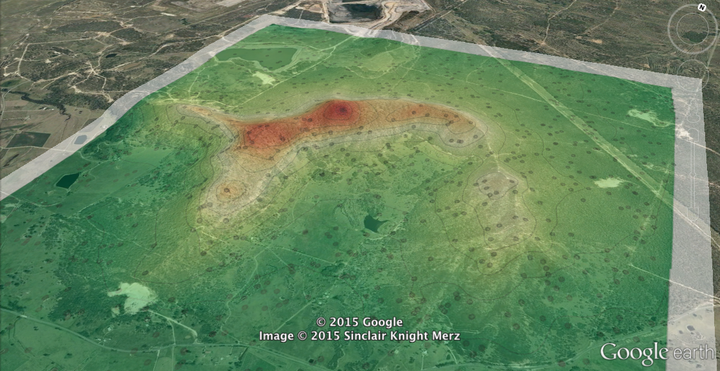
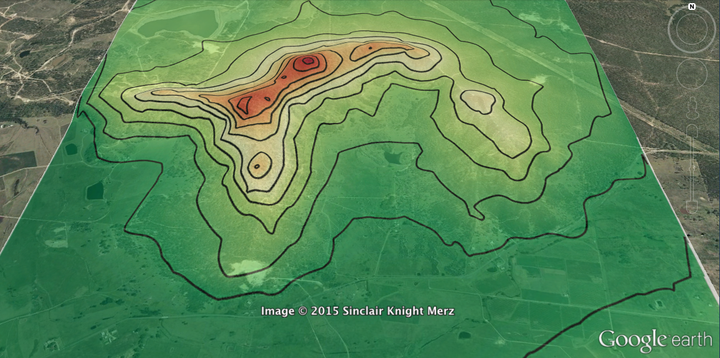
Updated images

diff --git a/_drafts/2015-3-27-The-Big-Picture-Part-2.md b/_drafts/2015-3-27-The-Big-Picture-Part-2.md
@@ -1,35 +1,32 @@
 ---
 layout: post
-title: The Big Picture II
+title: Interpolating scattered data
 ---
 
 ![_config.yml]({{ site.baseurl }}/images/6/header.png)
 
->The post is a follow on from my previous post. Because I'm often working with Geospatial data, I make much use of Matplotlib's two dimensional visualization capabilities. In this post, I look at the methods I use to communicate my message. 
+> Scattered points in, pretty pictures out. Let's talk about two dimensional interpolation.
 
 ---
 Summary
 ===============
 
-Scattered geophysical m
-
+Geospatial data often comes in the forms of samples taken at different points, when this occours a common next step is interpolation. 
+There are a number of different loptions for interpolation in python, lets exemaine what they are, and how they behave!
 
 ---
 
 The Data
 ===============
 
-https://www.dropbox.com/s/inw6rr9bflkkgfi/coordinates.csv?dl=0
+I've created a test dataset, by sampling randomly sampling the SRTM 90M DEM, the points can be found [here](https://www.dropbox.com/s/inw6rr9bflkkgfi/coordinates.csv?dl=0).
 
-
+Our first tast is to import the libuaries that we will need later. 
 {% highlight python %}
 import numpy as np
 from matplotlib.mlab import griddata
 import matplotlib.pyplot as plt
-import gdal
-import osr
 from pyproj import Proj
-from PIL import Image
 {% endhighlight %}
 
 
@@ -93,61 +90,7 @@ plt.close()
 
 ![_config.yml]({{ site.baseurl }}/images/6/ContourMap.png)
 
-{% highlight python %}
-fig = plt.figure()
-fig.set_size_inches(10, 10)
-ax = plt.Axes(fig, [0., 0., 1., 1.])
-ax.set_axis_off()
-fig.add_axes(ax)
-{% endhighlight %}
-
-{% highlight python %}
-plt.contour(DEM, levels,linewidths=0.2,colors='k')
-plt.imshow(DEM,cmap ='RdYlGn_r',origin='lower')
-plt.scatter(numIndexes*xArrayNormalized,numIndexes*yArrayNormalized,color='k',alpha=0.25)
-plt.savefig('ContourMapTight.png',dpi=900)
-plt.close()
-{% endhighlight %}
-
-![_config.yml]({{ site.baseurl }}/images/6/ContourMapTight.png)
-
 ---
-
-GeoTIFFs
-===============
-
-
-{% highlight python %}
-img  = np.asarray(Image.open('ContourMapTight.png'))
-EPSGCode = 4326
-numBands = 3
-arrayToRaster(img,'OUT.TIF',EPSGCode,np.min(xArray),np.max(xArray),np.min(yArray),np.max(yArray),numBands)
-{% endhighlight %}
-
-
-{% highlight python %}
-def arrayToRaster(array,fileName,EPSGCode,xMin,xMax,yMin,yMax,numBands):
-    xPixels = array.shape[1]  # number of pixels in x
-    yPixels = array.shape[0]  # number of pixels in y
-    pixelXSize =(xMax-xMin)/xPixels # size of the pixel in X direction     
-    pixelYSize = -(yMax-yMin)/yPixels # size of the pixel in Y direction
-
-    driver = gdal.GetDriverByName('GTiff')
-    dataset = driver.Create(fileName,xPixels,yPixels,numBands,gdal.GDT_Byte, options = [ 'PHOTOMETRIC=RGB' ])
-    dataset.SetGeoTransform((xMin,pixelXSize,0,yMax,0,pixelYSize))  
-
-    datasetSRS = osr.SpatialReference()
-    datasetSRS.ImportFromEPSG(EPSGCode)
-    dataset.SetProjection(datasetSRS.ExportToWkt())
-    
-    for i in range(0,numBands):
-        dataset.GetRasterBand(i+1).WriteArray(array[:,:,i])
-
-    dataset.FlushCache()  # Write to disk.
-{% endhighlight %}
-
-
-![_config.yml]({{ site.baseurl }}/images/6/GoogleEarth.png)
 
 Further reading
 ===============

diff --git a/_drafts/2015-4-2-GDAL.md b/_drafts/2015-4-2-GDAL.md
@@ -1,0 +1,86 @@
+
+---
+
+Contour plots
+===============
+
+{% highlight python %}
+levels = np.arange(np.min(DEM),np.max(DEM),25)
+plt.contour(DEM, levels,linewidths=0.2,colors='k')
+{% endhighlight %}
+
+{% highlight python %}
+plt.imshow(DEM,cmap ='RdYlGn_r',origin='lower')
+plt.colorbar()
+{% endhighlight %}
+
+{% highlight python %}
+xArrayNormalized=xArray/(np.max(xArray)-np.min(xArray))
+xArrayNormalized-=np.min(xArrayNormalized)
+yArrayNormalized=yArray/(np.max(yArray)-np.min(yArray))
+yArrayNormalized-=np.min(yArrayNormalized)
+plt.scatter(numIndexes*xArrayNormalized,numIndexes*yArrayNormalized,color='k',alpha=0.25)
+{% endhighlight %}
+
+{% highlight python %}
+plt.title('Height in meters')
+plt.savefig('ContourMap.png',dpi=900)
+plt.close()
+{% endhighlight %}
+
+![_config.yml]({{ site.baseurl }}/images/6/ContourMap.png)
+
+{% highlight python %}
+fig = plt.figure()
+fig.set_size_inches(10, 10)
+ax = plt.Axes(fig, [0., 0., 1., 1.])
+ax.set_axis_off()
+fig.add_axes(ax)
+{% endhighlight %}
+
+{% highlight python %}
+plt.contour(DEM, levels,linewidths=0.2,colors='k')
+plt.imshow(DEM,cmap ='RdYlGn_r',origin='lower')
+plt.savefig('ContourMapTight.png',dpi=900)
+plt.close()
+{% endhighlight %}
+
+![_config.yml]({{ site.baseurl }}/images/6/ContourMapTight.png)
+
+---
+
+GeoTIFFs
+===============
+
+
+{% highlight python %}
+img  = np.asarray(Image.open('ContourMapTight.png'))
+EPSGCode = 4326
+numBands = 3
+arrayToRaster(img,'OUT.TIF',EPSGCode,np.min(xArray),np.max(xArray),np.min(yArray),np.max(yArray),numBands)
+{% endhighlight %}
+
+
+{% highlight python %}
+def arrayToRaster(array,fileName,EPSGCode,xMin,xMax,yMin,yMax,numBands):
+    xPixels = array.shape[1]  # number of pixels in x
+    yPixels = array.shape[0]  # number of pixels in y
+    pixelXSize =(xMax-xMin)/xPixels # size of the pixel in X direction     
+    pixelYSize = -(yMax-yMin)/yPixels # size of the pixel in Y direction
+
+    driver = gdal.GetDriverByName('GTiff')
+    dataset = driver.Create(fileName,xPixels,yPixels,numBands,gdal.GDT_Byte, options = [ 'PHOTOMETRIC=RGB' ])
+    dataset.SetGeoTransform((xMin,pixelXSize,0,yMax,0,pixelYSize))  
+
+    datasetSRS = osr.SpatialReference()
+    datasetSRS.ImportFromEPSG(EPSGCode)
+    dataset.SetProjection(datasetSRS.ExportToWkt())
+    
+    for i in range(0,numBands):
+        dataset.GetRasterBand(i+1).WriteArray(array[:,:,i])
+
+    dataset.FlushCache()  # Write to disk.
+{% endhighlight %}
+
+
+![_config.yml]({{ site.baseurl }}/images/6/GoogleEarth.png)
